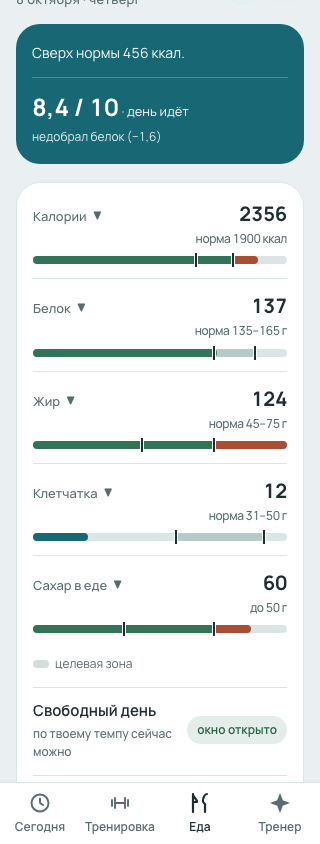
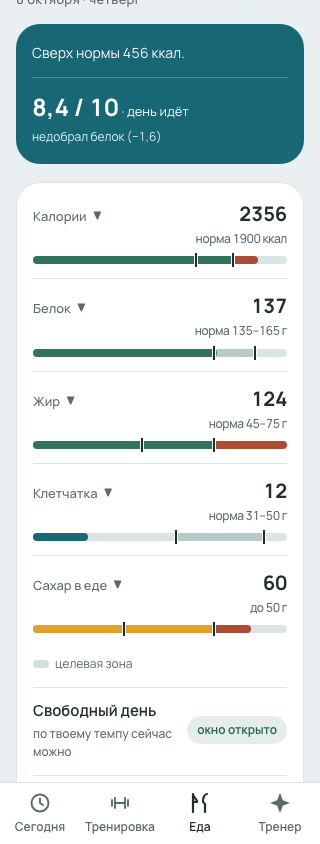
Ревью блока 6: у сахара зоны прежние — до 5 % зелёное, до 10 % жёлтое, сверх — красное
Черты на 5 % и 10 % остаются. В ветке сахар 5–10 % стал «зелёным
коридором», а меньше 5 % — бирюзовым «ниже нормы»: у сахара меньше —
лучше, это меняло смысл шкалы (решение 27.09). Неточность была в моём
задании Codex. Возвращены прежние утверждения test-koridor, test-ds1 и
test-shkaly-cherty проверяют жёлтое между чертами; снимки bars-* пересняты.

Claude-Session: https://claude.ai/code/session_018b798BsUeMKSUV5ZuasR5C

Changed region(s): [[0.0938, 0.7393, 0.6562, 0.7701]]

diff --git a/tg/test-shkaly-cherty.js b/tg/test-shkaly-cherty.js
@@ -4,12 +4,14 @@ const shots=process.env.GF_BAR_SHOTS;if(shots)fs.mkdirSync(shots,{recursive:true
 const targets={kcal:1900,prot:135,protMax:165,fat:{min:45,max:75},fib:31,fibMax:50,sug:50,sugIdeal:25};
 const scenes=[{name:'friend',kcal:2356,prot:137,fat:124,fib:12,sug:60},{name:'below',kcal:1000,prot:80,fat:30,fib:12,sug:10},{name:'inside',kcal:1900,prot:165,fat:75,fib:31,sug:50},{name:'excess',kcal:9999,prot:250,fat:200,fib:90,sug:90}];
 async function check(p,loc,v,lo,hi,max,kind){
- const d=await loc.evaluate(e=>{const fill=e.querySelector('i,.hfill'),c=getComputedStyle(fill),r=e.getBoundingClientRect();const probe=document.createElement('span');document.body.appendChild(probe);let tokens={};for(const t of ['accent','done','warn','dim','text','surface']){probe.style.color='var(--'+t+')';tokens[t]=getComputedStyle(probe).color;}probe.remove();return {tokens,bg:c.backgroundColor,img:c.backgroundImage,width:r.width,fillWidth:fill.getBoundingClientRect().width,overflow:getComputedStyle(e).overflow,fillZ:+c.zIndex,edges:[...e.querySelectorAll('.norm-edge')].map(n=>{const x=n.getBoundingClientRect(),s=getComputedStyle(n);return {x:x.x-r.x+1,w:x.width,top:x.top-r.top,bottom:x.bottom-r.bottom,z:+s.zIndex,color:s.backgroundColor,shadow:s.boxShadow};})};});
+ const d=await loc.evaluate(e=>{const fill=e.querySelector('i,.hfill'),c=getComputedStyle(fill),r=e.getBoundingClientRect();const probe=document.createElement('span');document.body.appendChild(probe);let tokens={};for(const t of ['accent','done','warn','dim','mid','text','surface']){probe.style.color='var(--'+t+')';tokens[t]=getComputedStyle(probe).color;}probe.remove();return {tokens,bg:c.backgroundColor,img:c.backgroundImage,width:r.width,fillWidth:fill.getBoundingClientRect().width,overflow:getComputedStyle(e).overflow,fillZ:+c.zIndex,edges:[...e.querySelectorAll('.norm-edge')].map(n=>{const x=n.getBoundingClientRect(),s=getComputedStyle(n);return {x:x.x-r.x+1,w:x.width,top:x.top-r.top,bottom:x.bottom-r.bottom,z:+s.zIndex,color:s.backgroundColor,shadow:s.boxShadow};})};});
  const lum=c=>c.match(/[\d.]+/g).slice(0,3).map(Number).map(x=>{x/=255;return x<=.04045?x/12.92:((x+.055)/1.055)**2.4;}).reduce((a,x,i)=>a+x*[.2126,.7152,.0722][i],0);const a=lum(d.tokens.text),b=lum(d.tokens.surface);assert((Math.max(a,b)+.05)/(Math.min(a,b)+.05)>=4.5,'Контраст черты с окантовкой ≥4,5');
  assert.equal(d.edges.length,2);assert.equal(d.overflow,'visible');
  for(let i=0;i<2;i++){const e=d.edges[i];assert(Math.abs(e.x-d.width*Math.min(1,[lo,hi][i]/max))<.3);assert.equal(e.w,2);assert(e.top<0&&e.bottom>0);assert(e.z>d.fillZ);assert.equal(e.color,d.tokens.text);assert(e.shadow.includes(d.tokens.surface),'Контрастная окантовка черты поверх любого цвета');}
  assert(Math.abs(d.fillWidth-d.width*Math.min(1,v/max))<.4,'Факт и границы на одной шкале');
- if(v<=hi){assert.equal(d.img,'none');assert.equal(d.bg,v<lo?d.tokens.accent:d.tokens.done);}else{assert(d.img.includes(d.tokens.done));assert(d.img.includes(d.tokens[kind==='min'?'dim':'warn']));const stop=hi/Math.min(v,max)*100;assert(d.img.includes(parseFloat(stop.toFixed(3))+'%'),'Цвет меняется ровно на верхней границе');}
+ /* 08.10, ревью: у сахара меньше — лучше: до первой черты зелёное, между чертами жёлтое, сверх — красный участок */
+ const ниже=kind==='max'?d.tokens.done:d.tokens.accent, внутри=kind==='max'?d.tokens.mid:d.tokens.done;
+ if(v<=hi){assert.equal(d.img,'none');assert.equal(d.bg,(kind==='max'?v<=lo:v<lo)?ниже:внутри,'цвет зоны '+kind+' при '+v);}else{assert(d.img.includes(внутри));assert(d.img.includes(d.tokens[kind==='min'?'dim':'warn']));const stop=hi/Math.min(v,max)*100;assert(d.img.includes(parseFloat(stop.toFixed(3))+'%'),'Цвет меняется ровно на верхней границе');}
 }
 (async()=>{const b=await chromium.launch();let bad=0;try{for(const theme of ['light','dark'])for(const width of [320,390]){
 try{for(const day of scenes){const p=await b.newPage({viewport:{width,height:844}});try{const errors=await M.поднять(p,{theme,day:{...day,targets,line:'За день: '+day.kcal+' ккал, белка '+day.prot+' г. '+(day.kcal>1900?'Сверх нормы '+(day.kcal-1900)+' ккал.':'До нормы ещё '+(1900-day.kcal)+' ккал.')}});await p.waitForTimeout(650);

diff --git a/tg/test-koridor.js b/tg/test-koridor.js
@@ -6,7 +6,7 @@
    • калории, когда норма — нижняя граница плана, зеленеют от неё, а не от −10 %;
    • белок и клетчатка — коридор от нормы до края; правее — серое, не красное;
      при почках белок — узкий коридор, перебор красный;
-   • сахар — черты 5 % и 10 %, между ними зелёное, избыток красный (08.10);
+   • сахар — зелёное до 5 % калорий, жёлтое до 10 %, выше красное; черты на 5 % и 10 % (08.10);
    • у старого дня без краёв коридоры всё равно есть (запас на экране);
    • на «Сегодня» у калорий и белка — те же коридоры. */
 const { chromium } = require('playwright');
@@ -46,12 +46,12 @@ async function день(br, d, o) {
   дано(кл.зн === '10 норма 25–40 г' && около(кл.кор[0].l, 25 / 44 * 100) && около(кл.кор[0].w, 15 / 44 * 100),
     'клетчатка: коридор 25–40, шкала тянется до 1,1 края: ' + кл.зн + ' ' + JSON.stringify(кл.кор[0]));
   дано(с.зн === '48 до 45 г', 'сахар подписан потолком: ' + с.зн);
-  дано(с.кор.length === 1 && около(с.кор[0].l, 22 / 63 * 100) && около(с.кор[0].w, 23 / 63 * 100),
-    'сахар: коридор от 22 г (5 %) до 45 г (10 %): ' + JSON.stringify(с.кор));
+  дано(с.кор.length === 2 && /fcor0/.test(с.кор[0].c) && /fmid/.test(с.кор[1].c) && около(с.кор[0].w, 22 / 63 * 100) && около(с.кор[1].l, 22 / 63 * 100),
+    'сахар: зелёное до 22 г (5 %), жёлтое до 45 г (10 %): ' + JSON.stringify(с.кор));
   дано(с.кл === 'fb-over', '48 из 45 — красное: ' + с.кл);
   await page.click('#fday .fbar[data-fk="sug"]'); await page.waitForTimeout(300);
   const подпись = await page.$eval('#fday .fbar[data-fk="sug"]', e => e.innerText);
-  дано(/Первая черта — 22 г \(5 % калорий, ориентир ВОЗ\), вторая — 45 г \(10 %, потолок\)/.test(подпись), 'по нажатию сказано, что значат зоны сахара');
+  дано(/до 22 г \(5 % калорий, ориентир ВОЗ\), жёлтое — до 45 г/.test(подпись), 'по нажатию сказано, что значат зоны сахара');
   await page.click('#fday .fbar[data-fk="prot"]'); await page.waitForTimeout(300);
   дано(/Коридор — 160–195 г\. Больше — не ошибка/.test(await page.$eval('#fday .fbar[data-fk="prot"]', e => e.innerText)), 'и у белка — что правее серое, не ошибка');
   await page.click('#fday .fbar[data-fk="kcal"]'); await page.waitForTimeout(300);
@@ -64,11 +64,11 @@ async function день(br, d, o) {
   дано(около(ш[0].кор[0].l, 0.9 / 1.4 * 100) && ш[0].кл === 'fb-done', 'норма по цели — коридор ±10 %, 1850 в нём: ' + JSON.stringify(ш[0].кор[0]));
   дано(ш[1].кл === 'fb-more', 'белок 210 при коридоре 160–195 — серое, не красное: ' + ш[1].кл);
   дано(ш[3].кл === 'fb-more', 'клетчатка 45 при 25–40 — серое: ' + ш[3].кл);
-  дано(ш[4].кл === 'fb-done', 'сахар 30 — между 22 и 45 — зелёное: ' + ш[4].кл);
+  дано(ш[4].кл === 'fb-mid', 'сахар 30 — между 22 и 45 — жёлтое: ' + ш[4].кл);
   await page.close();
   ({ page } = await день(br, { targets: НОРМА, kcal: 1850, prot: 170, fat: 60, fib: 30, sug: 15 }));
   ш = await шкалы(page);
-  дано(ш[1].кл === 'fb-done' && ш[3].кл === 'fb-done' && ш[4].кл === '', 'белок 170 и клетчатка 30 в коридоре; сахар 15 ниже первой черты');
+  дано(ш[1].кл === 'fb-done' && ш[3].кл === 'fb-done' && ш[4].кл === 'fb-done', 'в коридоре — зелёное: белок 170, клетчатка 30, сахар 15 (ниже 5 % — лучшая зона)');
   await page.close();
 
   /* ── почки: коридор узкий, перебор — красным ── */

diff --git a/index.html b/index.html
@@ -13580,8 +13580,10 @@ document.getElementById('eatbody').addEventListener('input', function(e){
      же полосы, по которой считан; клетчатка — 1,6 нормы); правее — серое
      «пользы больше нет», не красное. Шкала тянется до 1,1 края;
    band — жир (и белок при почках): lo…hi, перебор красный;
-   max — сахар: черты у ориентира ВОЗ 5 % (lo) и потолка 10 % (t);
-     сверх потолка — красный участок (08.10: «Черты + цвет»). */
+   max — сахар: зелёное до ориентира ВОЗ 5 % (lo), жёлтое до потолка 10 %,
+     выше — красное. 08.10 («Черты + цвет»): черты на 5 % и 10 %; заливка —
+     цветом своей зоны, сверх потолка — красный участок. У сахара меньше —
+     лучше, поэтому «ниже первой черты» здесь зелёное, а не бирюзовое. */
 function trackHtml(v, t, mode, lo, hi){
   if(!t) return '<div class="tr"></div>';
   if(mode==='range'){ lo = lo || t*0.9; hi = t*1.1; }
@@ -13592,14 +13594,18 @@ function trackHtml(v, t, mode, lo, hi){
   var cor=function(a, b, c){ return '<em class="fcor'+(c?' '+c:'')+'" style="left:'+F(P(a))+'%;width:'+F(P(b)-P(a))+'%"></em>'; };
   var cls = mode==='range' ? (v>hi?'fb-over':(v>=lo?'fb-done':''))
           : mode==='band'  ? (v>t?'fb-over':(v>=lo?'fb-done':''))
-          : mode==='max'   ? (v>t?'fb-over':(v>=lo?'fb-done':''))
+          : mode==='max'   ? (v>t?'fb-over':(v>lo?'fb-mid':'fb-done'))
           :                  (v>hi?'fb-more':(v>=t?'fb-done':''));
   var low=mode==='min'?t:lo, high=mode==='range'||mode==='min'?hi:t;
-  var h='<div class="tr" style="--bar-fill:'+normFill(Math.min(v,max),low,high,mode==='min'?'dim':'warn')+'">';
+  var заливка = mode==='max'
+    ? (v<=lo ? 'var(--done)' : v<=t ? 'var(--mid)'
+       : 'linear-gradient(to right,var(--mid) 0 '+Math.max(0,Math.min(100,t/Math.min(v,max)*100)).toFixed(3)+'%,var(--warn) '+Math.max(0,Math.min(100,t/Math.min(v,max)*100)).toFixed(3)+'% 100%)')
+    : normFill(Math.min(v,max),low,high,mode==='min'?'dim':'warn');
+  var h='<div class="tr" style="--bar-fill:'+заливка+'">';
   if(mode==='range') h+=cor(lo, hi);
   if(mode==='band')  h+=cor(lo, t);
   if(mode==='min')   h+=cor(t, hi);
-  if(mode==='max')   h+=cor(lo, t);
+  if(mode==='max')   h+=cor(0, lo, 'fcor0')+cor(lo, t, 'fmid');
   h+=normEdges(low,high,P);
   h+='<i class="'+cls+'" style="width:'+pct.toFixed(1)+'%"></i><span class="fdot '+cls+'" style="left:'+pct.toFixed(1)+'%"></span></div>';
   return h;
@@ -13946,7 +13952,7 @@ function renderFoodDay(){
     prot: t.prot ? (белКрай ? 'Коридор — '+t.prot+'–'+t.protMax+' г: при почках больше — тоже плохо.'
                             : 'Коридор — '+t.prot+'–'+белВерх+' г. Больше — не ошибка, но и пользы для мышц уже нет: дальше полоса серая.') : '',
     fib: t.fib ? 'Коридор — '+t.fib+'–'+клВерх+' г. Больше — не вредно, дальше полоса серая.' : '',
-    sug: t.sug ? 'Первая черта — '+сахОр+' г (5 % калорий, ориентир ВОЗ), вторая — '+t.sug+' г (10 %, потолок). Сверх потолка — красный участок.' : ''
+    sug: t.sug ? 'Зелёное — до '+сахОр+' г (5 % калорий, ориентир ВОЗ), жёлтое — до '+t.sug+' г (10 %, потолок), выше — красное.' : ''
   };
   /* 02.10: свободный день — вместо шкал и оценки одна карточка; приёмы, если
      что-то записано, остаются списком, но без баллов */

diff --git a/tg/test-ds1.js b/tg/test-ds1.js
@@ -21,7 +21,7 @@ await p.click('.l1 button[data-page="food"]');await p.waitForTimeout(400);
 дано(await p.locator('#fday .ds-zone').count()===1,'на Еде одна легенда');
 дано(await p.locator('#fday .tr').evaluateAll(ns=>ns.every(n=>getComputedStyle(n).height==='8px')),'полосы еды 8px');
 дано(await p.locator('#fday .fcor').count()>=5,'границы целевых зон сохранены');
-дано(await p.locator('#fday .tr i').evaluateAll(ns=>ns.every((e,i)=>{const probe=document.createElement('span');probe.style.color=i===4?'var(--done)':'var(--accent)';document.body.appendChild(probe);const expected=getComputedStyle(probe).color;probe.remove();return getComputedStyle(e).backgroundColor===expected;})),'шкалы ниже коридора акцентные; сахар 32 внутри 25–50 зелёный');
+дано(await p.locator('#fday .tr i').evaluateAll(ns=>ns.every((e,i)=>{const probe=document.createElement('span');probe.style.color=i===4?'var(--mid)':'var(--accent)';document.body.appendChild(probe);const expected=getComputedStyle(probe).color;probe.remove();return getComputedStyle(e).backgroundColor===expected;})),'шкалы ниже коридора акцентные; сахар 32 между 5 % и 10 % (25–50) жёлтый');
 const tab=await p.locator('.zseg button[aria-pressed="true"]:visible').evaluate(e=>{let c=getComputedStyle(e);return [c.borderBottomWidth,c.backgroundColor,c.fontSize]});
 дано(tab[0]==='3px'&&tab[1]==='rgba(0, 0, 0, 0)'&&tab[2]==='16px','активная вкладка подчёркнута, без капсулы');
 дано(await p.evaluate(()=>document.documentElement.scrollWidth<=innerWidth),'экран помещается в '+width);
